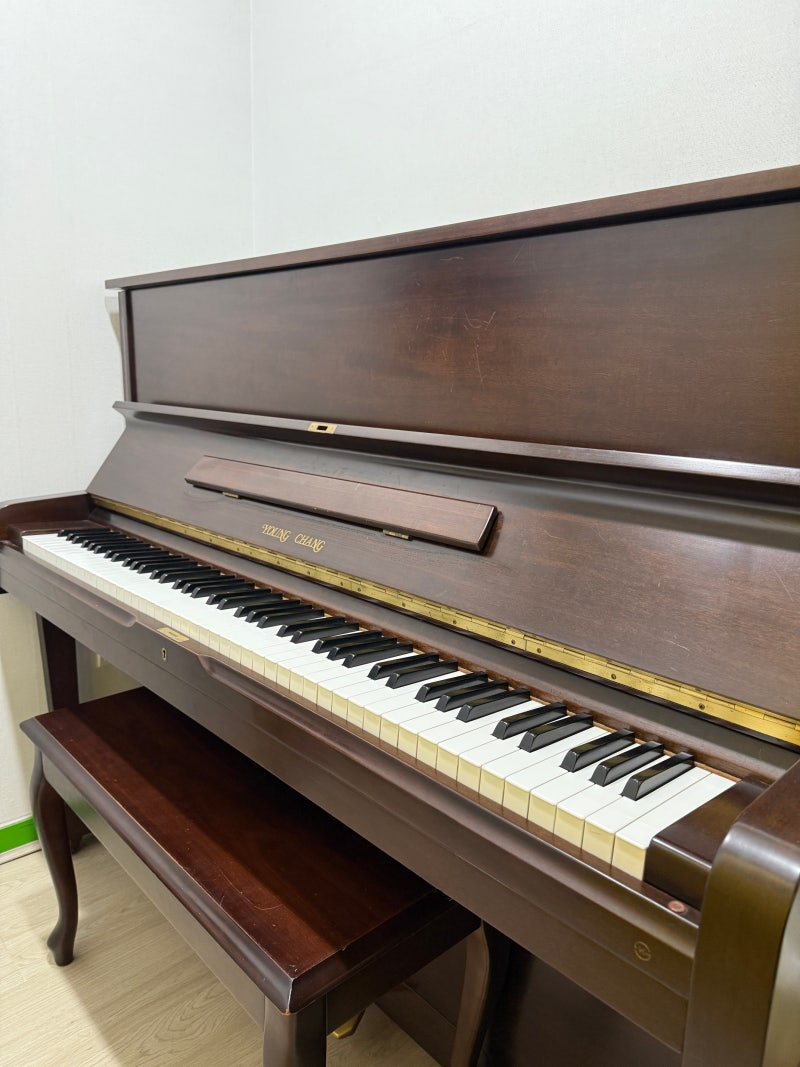
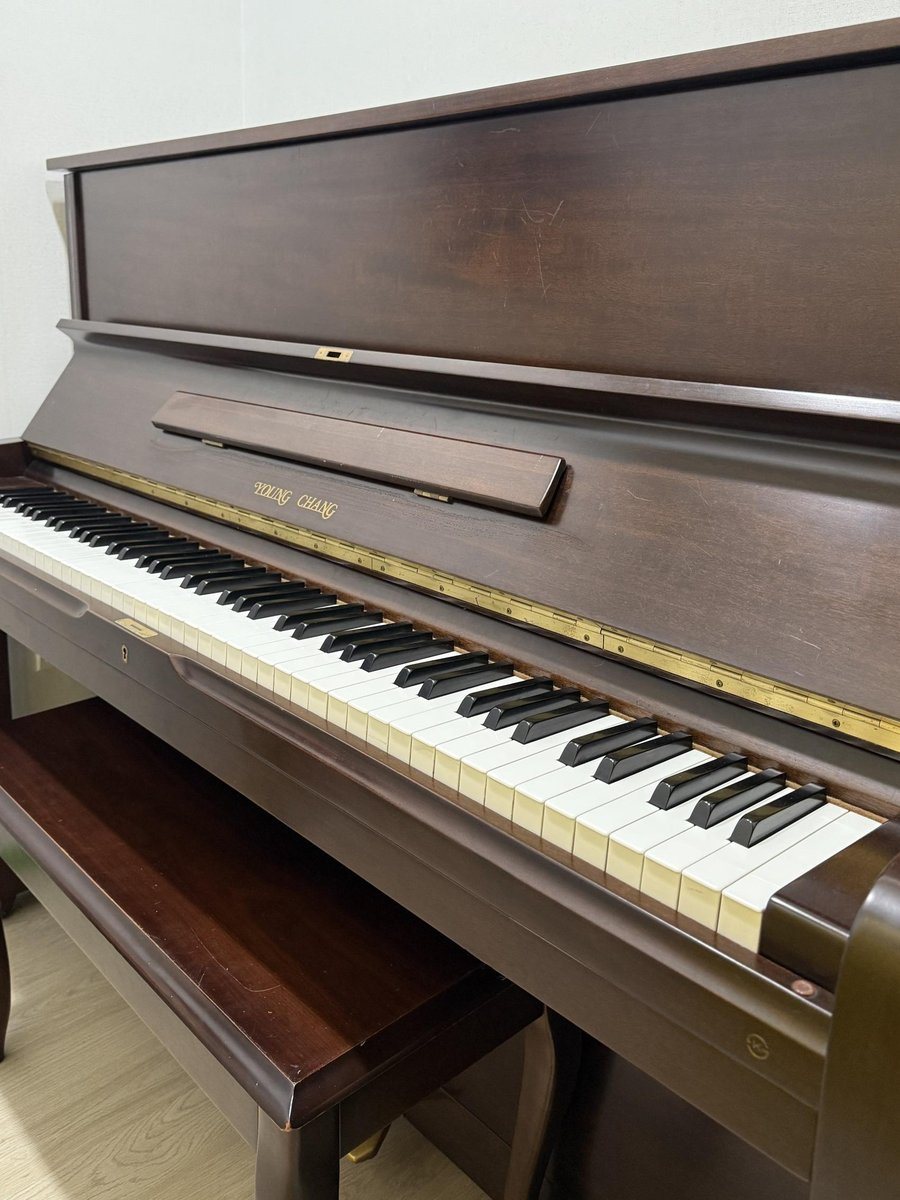
sm-piano: 히어로를 풀블리드 사진으로, 수료증 증거 사진 추가, 블로그 링크
be9 시안의 히어로 패턴(전면 사진 + 그라디언트 + 하단 텍스트)을 가져와 작은
폴라로이드 카드 대신 큰 피아노 건반 사진을 배경으로 깔았다. 기존 실사 3장은
고해상도로 다시 크롭해 여백·레터박스·YAMAHA 로고 겹침을 제거했다.

작곡 클래스 섹션에는 실제 발급된 수료증 사진을 추가해 "이론이 아니라 실제로
완성한다"는 주장을 증거로 뒷받침했다. 히어로 우측 상단에는 블로그로 돌아갈 수
있는 링크를 얹었다.

diff --git a/sm-piano/index.html b/sm-piano/index.html
@@ -185,40 +185,97 @@
     .reveal{ opacity:1; transform:none; transition:none; }
   }
 
-  /* ---------- Hero ---------- */
+  /* ---------- Hero (full-bleed photo) ---------- */
   .hero{
-    padding:72px 0 96px;
+    position:relative;
+    height:min(82vh,680px);
+    min-height:480px;
     overflow:hidden;
   }
-  .hero-grid{
-    display:grid;
-    grid-template-columns:1fr;
-    gap:56px;
+  .hero-bg{
+    position:absolute;
+    inset:0;
+    width:100%;
+    height:100%;
+    object-fit:cover;
+    object-position:center 42%;
+    filter:saturate(1.05) contrast(1.05) brightness(.9);
+  }
+  .hero::after{
+    content:"";
+    position:absolute;
+    inset:0;
+    background:linear-gradient(180deg, rgba(20,15,10,.18) 0%, rgba(20,15,10,.46) 40%, rgba(15,11,7,.88) 100%);
+  }
+  .hero-topbar{
+    position:absolute;
+    top:0; left:0; right:0;
+    z-index:2;
+    padding:clamp(16px,3vw,28px) 0 0;
+  }
+  .hero-topbar .wrap{
+    display:flex;
+    justify-content:flex-end;
+  }
+  .hero-blog-link{
+    display:inline-flex;
     align-items:center;
+    gap:6px;
+    padding:9px 18px;
+    border-radius:999px;
+    background:rgba(17,13,9,.4);
+    backdrop-filter:blur(6px);
+    border:1px solid rgba(255,255,255,.3);
+    color:#fff;
+    font-size:0.82rem;
+    text-decoration:none;
+    white-space:nowrap;
+    transition:background .15s ease, border-color .15s ease;
   }
-  @media (min-width:900px){
-    .hero-grid{ grid-template-columns:1.1fr 0.9fr; gap:40px; }
+  .hero-blog-link:hover{
+    background:rgba(17,13,9,.6);
+    border-color:rgba(255,255,255,.55);
   }
+  .hero-blog-link .arrow{ font-family:var(--font-mono); }
+  .hero-copy{
+    position:absolute;
+    left:0; right:0; bottom:0;
+    z-index:2;
+    padding:clamp(32px,6vw,72px) 0 clamp(40px,6vw,64px);
+  }
+  .hero-copy .eyebrow{ color:var(--card-brass); text-shadow:0 1px 10px rgba(0,0,0,.4); }
+  .hero-copy .eyebrow::before{ background:var(--card-brass); }
   .hero h1{
-    font-size:clamp(2.1rem, 5vw, 3.2rem);
+    font-size:clamp(2.1rem, 5vw, 3.4rem);
     line-height:1.42;
     margin:18px 0 22px;
+    color:#fff;
+    text-shadow:0 2px 20px rgba(0,0,0,.4);
   }
   .hero .lead{
     font-size:1.05rem;
-    color:var(--ink-soft);
+    color:rgba(255,255,255,.86);
     max-width:46ch;
     margin-bottom:32px;
+    text-shadow:0 1px 12px rgba(0,0,0,.35);
   }
   .hero-ctas{
     display:flex;
     flex-wrap:wrap;
     gap:12px;
   }
+  .hero-copy .btn-ghost{
+    color:#fff;
+    border-color:rgba(255,255,255,.5);
+  }
+  .hero-copy .btn-ghost:hover{
+    border-color:#fff;
+    color:#fff;
+  }
   .hero-note{
     margin-top:16px;
     font-size:0.86rem;
-    color:var(--ink-faint);
+    color:rgba(255,255,255,.66);
   }
 
   /* real-photo treatment — warm brass color-grade ties every photo to the palette */
@@ -242,19 +299,6 @@
     background:linear-gradient(155deg, rgba(176,141,87,.24), rgba(43,38,34,.1));
     mix-blend-mode:multiply;
     pointer-events:none;
-  }
-  .hero-photo{
-    aspect-ratio:4/3;
-    transform:rotate(-1.4deg);
-  }
-  .hero-photo-cap{
-    margin-top:14px;
-    text-align:center;
-    font-size:0.78rem;
-    color:var(--ink-faint);
-  }
-  @media (max-width:899px){
-    .hero-photo-wrap{ max-width:420px; margin:0 auto; }
   }
 
   /* ---------- Intro ---------- */
@@ -422,6 +466,30 @@
     border-radius:50%;
     background:var(--card-brass);
     margin-top:9px;
+  }
+
+  .comp-visual{
+    display:flex;
+    flex-direction:column;
+    align-items:center;
+    gap:36px;
+  }
+  .comp-proof{
+    display:flex;
+    flex-direction:column;
+    align-items:center;
+  }
+  .comp-proof-photo{
+    width:min(100%, 300px);
+    aspect-ratio:4/3;
+    transform:rotate(-1.6deg);
+  }
+  .comp-proof-cap{
+    margin-top:14px;
+    text-align:center;
+    font-size:0.8rem;
+    color:rgba(247,241,230,.62);
+    max-width:30ch;
   }
 
   .combo{
@@ -671,8 +739,16 @@
 <main>
 
   <section id="hero" class="hero">
-    <div class="wrap hero-grid">
-      <div>
+    <img class="hero-bg" src="img/piano-keys.jpg" alt="상명피아노음악교습소 피아노 건반 클로즈업">
+    <div class="hero-topbar">
+      <div class="wrap">
+        <a class="hero-blog-link" href="https://blog.naver.com/byeoldabang_mh" target="_blank" rel="noopener">
+          네이버 블로그에서 소식 보기 <span class="arrow" aria-hidden="true">→</span>
+        </a>
+      </div>
+    </div>
+    <div class="hero-copy">
+      <div class="wrap">
         <span class="eyebrow">인천 검단구 마전동 · 상명피아노음악교습소</span>
         <h1>연주에서 시작해,<br>나만의 음악으로 완성하는 시간</h1>
         <p class="lead">피아노부터 작곡까지, 아이의 속도와 목표에 맞춰 배우는 음악교실입니다. 싱어송라이터가 직접 지도합니다.</p>
@@ -681,12 +757,6 @@
           <a class="btn btn-ghost" href="#classes">수업 과정 보기</a>
         </div>
         <p class="hero-note">정규 수업 전, 부담 없는 체험 레슨도 가능합니다.</p>
-      </div>
-      <div class="hero-photo-wrap">
-        <div class="photo-frame hero-photo">
-          <img src="img/sheet-music.jpg" alt="상명피아노음악교습소 업라이트 피아노 위에 펼쳐진 악보">
-        </div>
-        <p class="hero-photo-cap">상명피아노음악교습소 연습실</p>
       </div>
     </div>
   </section>
@@ -808,14 +878,22 @@
             <li><span class="dot" aria-hidden="true"></span>완성한 곡에 어울리는 장면을 구상해 뮤직비디오까지 제작합니다</li>
           </ul>
         </div>
-        <div class="combo" aria-hidden="true">
-          <div class="combo-card" style="background:var(--card-rose);"><small>재료</small>멜로디</div>
-          <span class="combo-op">+</span>
-          <div class="combo-card" style="background:var(--card-sky);"><small>재료</small>리듬</div>
-          <span class="combo-op">+</span>
-          <div class="combo-card" style="background:var(--card-sage);"><small>재료</small>화성</div>
-          <span class="combo-op">=</span>
-          <div class="combo-result"><small>완성</small>한 곡</div>
+        <div class="comp-visual">
+          <div class="combo" aria-hidden="true">
+            <div class="combo-card" style="background:var(--card-rose);"><small>재료</small>멜로디</div>
+            <span class="combo-op">+</span>
+            <div class="combo-card" style="background:var(--card-sky);"><small>재료</small>리듬</div>
+            <span class="combo-op">+</span>
+            <div class="combo-card" style="background:var(--card-sage);"><small>재료</small>화성</div>
+            <span class="combo-op">=</span>
+            <div class="combo-result"><small>완성</small>한 곡</div>
+          </div>
+          <div class="comp-proof">
+            <div class="photo-frame comp-proof-photo">
+              <img src="img/certificate.jpg" alt="상명피아노음악교습소 카드작곡 과정 수료증">
+            </div>
+            <p class="comp-proof-cap">과정을 마친 학생에게 실제로 발급하는 수료증입니다</p>
+          </div>
         </div>
       </div>
     </div>
@@ -846,7 +924,7 @@
           <img src="img/piano-room.jpg" alt="상명피아노음악교습소 업라이트 피아노와 연습 공간">
         </div>
         <div class="photo-frame space-photo-accent">
-          <img src="img/piano-keys.jpg" alt="상명피아노음악교습소 피아노 건반 클로즈업">
+          <img src="img/sheet-music.jpg" alt="상명피아노음악교습소 업라이트 피아노 위에 펼쳐진 악보">
         </div>
       </div>
     </div>

diff --git a/sm-piano/README.md b/sm-piano/README.md
@@ -38,12 +38,20 @@ python3 -m http.server 8000 --directory sm-piano
 
 ## 사진 출처 — 원장님 확인 필요
 
-`img/` 폴더의 3장(피아노 건반 클로즈업, 업라이트 피아노 전경, 악보가 펼쳐진 피아노)은
-원장님이 이미 블로그에 공개한 "음악공간을 소개합니다" 글(2025.11.11)의 사진입니다.
-아이 얼굴이 없는 공간·악기 사진이라 시안 단계에서는 바로 사용했지만, **실제 게시 전에는
-원장님께 이 사진을 계속 써도 되는지, 혹은 더 최근/더 좋은 사진으로 교체하고 싶은지 확인이
-필요합니다.** (해당 글 촬영 시점이 2025년 11월이라 크리스마스 장식 등 계절감이 섞인 사진이
-포함돼 있어, 그중 계절 요소가 없는 3장만 골라 썼습니다.)
+`img/` 폴더의 사진 4장은 모두 원장님이 이미 블로그에 공개한 글의 사진입니다.
+아이 얼굴이 없거나(공간·악기) 원장님이 직접 얼굴에 스티커로 가려 올린 사진(수료증)만
+골라 썼지만, **실제 게시 전에는 원장님께 이 사진들을 계속 써도 되는지, 혹은 더 최근/더 좋은
+사진으로 교체하고 싶은지 확인이 필요합니다.**
+
+- `piano-room.jpg` · `piano-keys.jpg` · `sheet-music.jpg` — "음악공간을 소개합니다" 글
+  (2025.11.11). 해당 글 촬영 시점이 2025년 11월이라 크리스마스 장식 등 계절감이 섞인 사진이
+  포함돼 있어, 그중 계절 요소가 없는 3장만 골라 원본에서 여백·얼룩진 벽 모서리를 잘라내고 썼습니다.
+  `piano-keys.jpg`는 히어로 배경으로 크게 쓰이면서, YAMAHA 로고·반사광이 들어간 원본 대신
+  브랜드명이 걸려서 헤드라인 텍스트와 겹치지 않는 건반 전용 크롭으로 다시 골랐습니다.
+- `certificate.jpg` — "1년의 창작 여정, 작곡수업 수료증 전달식" 글 (2026.3.5). 학생이
+  작곡반(카드작곡) 수료증을 들고 있는 사진에서, 원장님이 직접 얼굴에 동물 스티커를 붙여
+  가린 사진 중 수료증 문서만 보이도록 얼굴 부분을 제외하고 잘라 `#composition` 섹션에
+  "실제로 발급하는 수료증" 증거 사진으로 사용했습니다.
 
 ## 디자인 메모
 
@@ -53,10 +61,20 @@ python3 -m http.server 8000 --directory sm-piano
   "멜로디+리듬+화성=한 곡" 카드 조합 비주얼로 시그니처화했습니다.
   카드에 적힌 재료 이름(멜로디/리듬/화성/가사)은 일반적인 작곡 용어이며, 지식재산권 보호
   절차 중인 실제 카드 교재 내용은 노출하지 않았습니다.
+  그 아래에는 실제 발급된 수료증 사진(`certificate.jpg`)을 작게 붙여, "이론이 아니라 실제로
+  완성한다"는 주장을 추상적 그래픽에서 끝내지 않고 증거로 뒷받침합니다.
 - 폰트: 제목 Gowun Batang(고운바탕, 한글 세리프) / 본문 Pretendard / 시간표·수치 IBM Plex Mono.
-- **실제 사진 처리**: 히어로와 공간 섹션의 실제 사진에는 `.photo-frame` 클래스로 브라스 톤
-  color-grade(연한 브라스 그라디언트를 `mix-blend-mode:multiply`로 겹침)를 공통 적용해,
-  서로 다른 시점·조명에서 찍힌 블로그 사진들이 한 팔레트로 보이도록 통일했습니다.
-  약간의 회전(-1~2도)과 그림자로 "출력해서 올려둔 사진" 느낌을 냈습니다.
+- **실제 사진 처리**: 공간 섹션의 사진에는 `.photo-frame` 클래스로 브라스 톤 color-grade(연한
+  브라스 그라디언트를 `mix-blend-mode:multiply`로 겹침)를 적용해, 서로 다른 시점·조명에서 찍힌
+  블로그 사진들이 한 팔레트로 보이도록 통일했습니다. 약간의 회전(-1~2도)과 그림자로 "출력해서
+  올려둔 사진" 느낌을 냈습니다.
+- **히어로 = 풀블리드 사진**: `be9`(benine9 studio) 제안 시안의 히어로 패턴(사진 전체를 배경으로
+  깔고 하단에서 위로 어두워지는 그라디언트 위에 흰 글자를 얹는 방식)을 이 페이지에도 가져왔습니다.
+  사진은 `piano-keys.jpg`(YAMAHA 로고 없는 건반 클로즈업)를 크게 씁니다. 텍스트 가독성은
+  그라디언트(`--dusk` 계열, 하단 88%까지 어두워짐)와 헤드라인·리드 문구에 준 `text-shadow`로
+  확보했고, `.hero-copy .btn-ghost`만 별도로 흰색 외곽선으로 오버라이드해 사진 위에서도
+  버튼이 보이게 했습니다. 히어로 우측 상단에는 "네이버 블로그에서 소식 보기" 유리질감 pill
+  링크(`.hero-topbar`)를 얹어, PRD의 "유입은 블로그, 전환은 이 페이지" 역할 분담과 반대로
+  더 최신 소식이 궁금한 방문자는 언제든 블로그로 돌아갈 수 있게 열어 뒀습니다.
 - 모바일 최상단에서 스크롤 없이 히어로 헤드라인과 "문의하기" CTA(헤더 고정 버튼 포함)에
   도달하는 것을 Playwright로 확인했습니다(390×844 기준).
